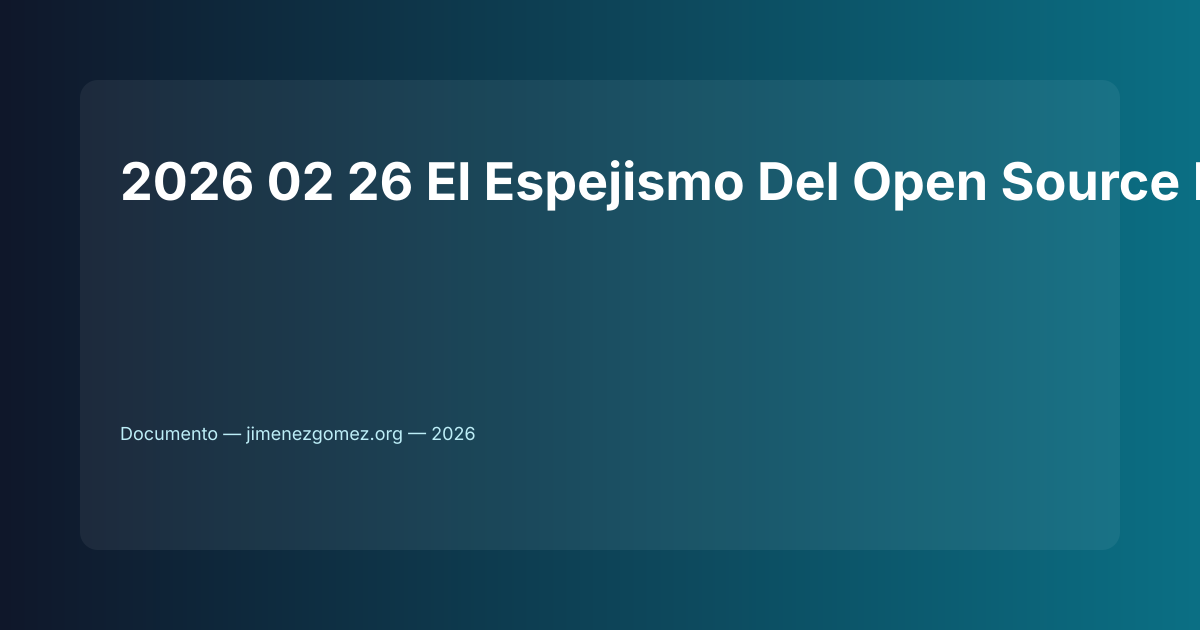
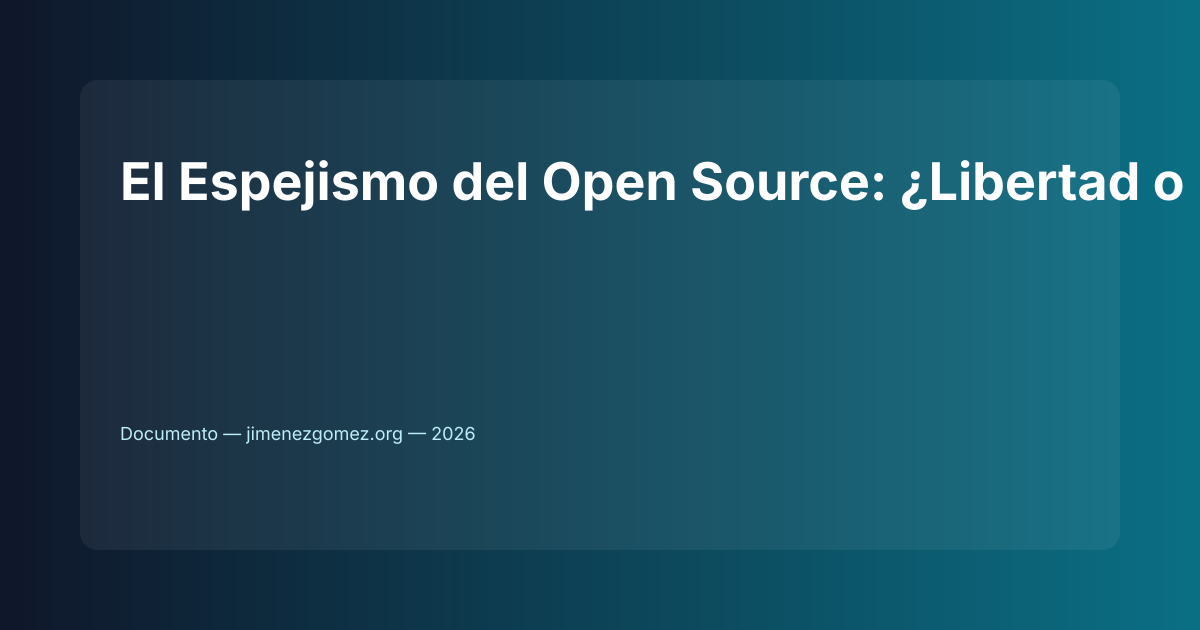
Fix frontmatter: 2026-02-26 post

Changed region(s): [[0.0925, 0.2413, 1.0, 0.3317]]

diff --git a/content/posts/2026-02-26-el-espejismo-del-open-source-libertad-o-despojo-programado/index.md b/content/posts/2026-02-26-el-espejismo-del-open-source-libertad-o-despojo-programado/index.md
@@ -1,4 +1,5 @@
----title: "El Espejismo del Open Source: ¿Libertad o Despojo Programado?"
+---
+title: "El Espejismo del Open Source: ¿Libertad o Despojo Programado?"
 date: 2026-02-26T11:09:00+01:00
 draft: false
 layout: post
